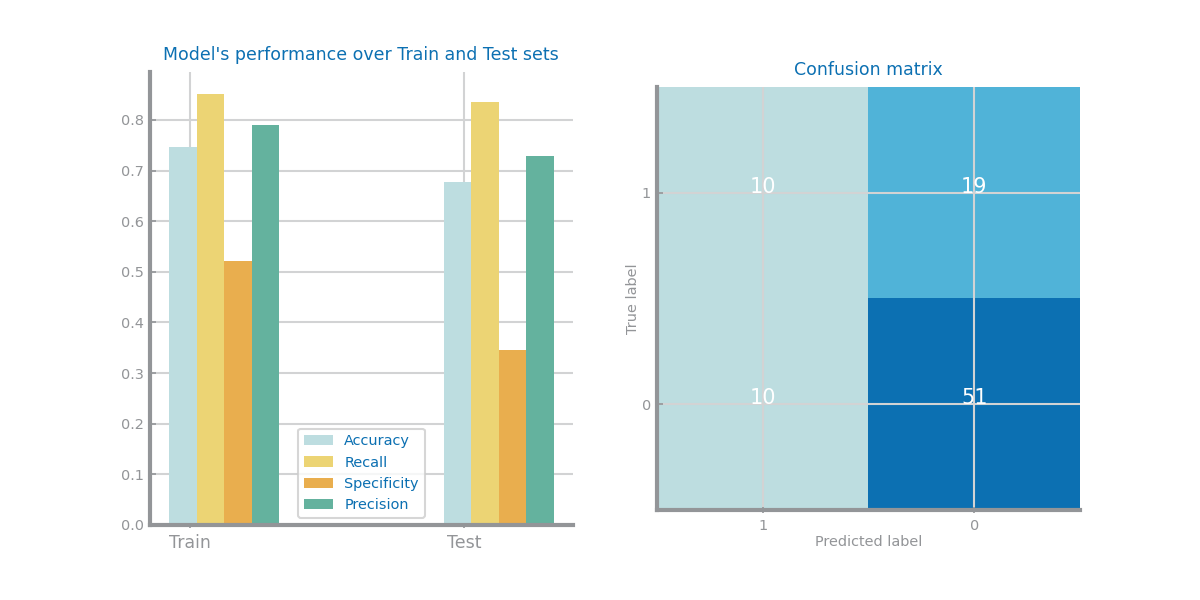
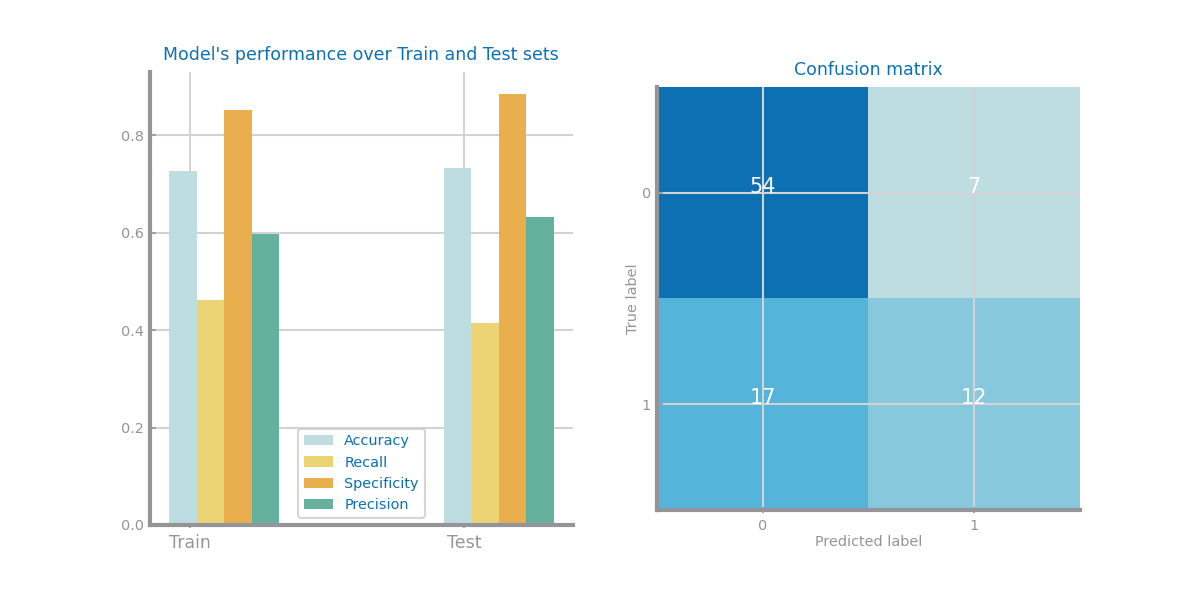
playing around with crossval with 10 splits

diff --git a/Heart_NaiveBayes_WithNewFeatures.py b/Heart_NaiveBayes_WithNewFeatures.py
@@ -45,18 +45,18 @@ if __name__ == "__main__":
     
     
     # hold-out (train_test_split)
-    trnX, tstX, trnY, tstY = train_test_split(X, y, train_size=0.7, stratify=y)
+    # trnX, tstX, trnY, tstY = train_test_split(X, y, train_size=0.7, stratify=y)
     
-    clf_holdout = NaiveBayesModel(trnX, tstX, trnY, tstY)
-    plt.savefig('plots/Heart_NaiveBayes_f_g_holdout.png')
-    _, score_holdout = NaiveBayesEstimation(trnX, tstX, trnY, tstY)
-    plt.savefig('plots/Heart_NaiveBayes_f_g_holdout_estimators.png')
+    # clf_holdout = NaiveBayesModel(trnX, tstX, trnY, tstY)
+    # plt.savefig('plots/Heart_NaiveBayes_f_g_holdout.png')
+    # _, score_holdout = NaiveBayesEstimation(trnX, tstX, trnY, tstY)
+    # plt.savefig('plots/Heart_NaiveBayes_f_g_holdout_estimators.png')
     
-    print('Holdout score:', score_holdout)
+    # print('Holdout score:', score_holdout)
     
     
     # k-fold cross validation (StratifiedKFold)
-    n_splits = 5
+    n_splits = 10
     skf = StratifiedKFold(n_splits, shuffle=True)
     skf.get_n_splits(X, y)
     

diff --git a/Heart_NaiveBayes.py b/Heart_NaiveBayes.py
@@ -45,18 +45,18 @@ if __name__ == "__main__":
     
     
     # hold-out (train_test_split)
-    trnX, tstX, trnY, tstY = train_test_split(X, y, train_size=0.7, stratify=y)
+    # trnX, tstX, trnY, tstY = train_test_split(X, y, train_size=0.7, stratify=y)
     
-    clf_holdout = NaiveBayesModel(trnX, tstX, trnY, tstY)
-    plt.savefig('plots/Heart_NaiveBayes_holdout.png')
-    _, score_holdout = NaiveBayesEstimation(trnX, tstX, trnY, tstY)
-    plt.savefig('plots/Heart_NaiveBayes_holdout_estimators.png')
+    # clf_holdout = NaiveBayesModel(trnX, tstX, trnY, tstY)
+    # plt.savefig('plots/Heart_NaiveBayes_holdout.png')
+    # _, score_holdout = NaiveBayesEstimation(trnX, tstX, trnY, tstY)
+    # plt.savefig('plots/Heart_NaiveBayes_holdout_estimators.png')
     
-    print('Holdout score:', score_holdout)
+    # print('Holdout score:', score_holdout)
     
     
     # k-fold cross validation (StratifiedKFold)
-    n_splits = 5
+    n_splits = 10
     skf = StratifiedKFold(n_splits, shuffle=True)
     skf.get_n_splits(X, y)
     
